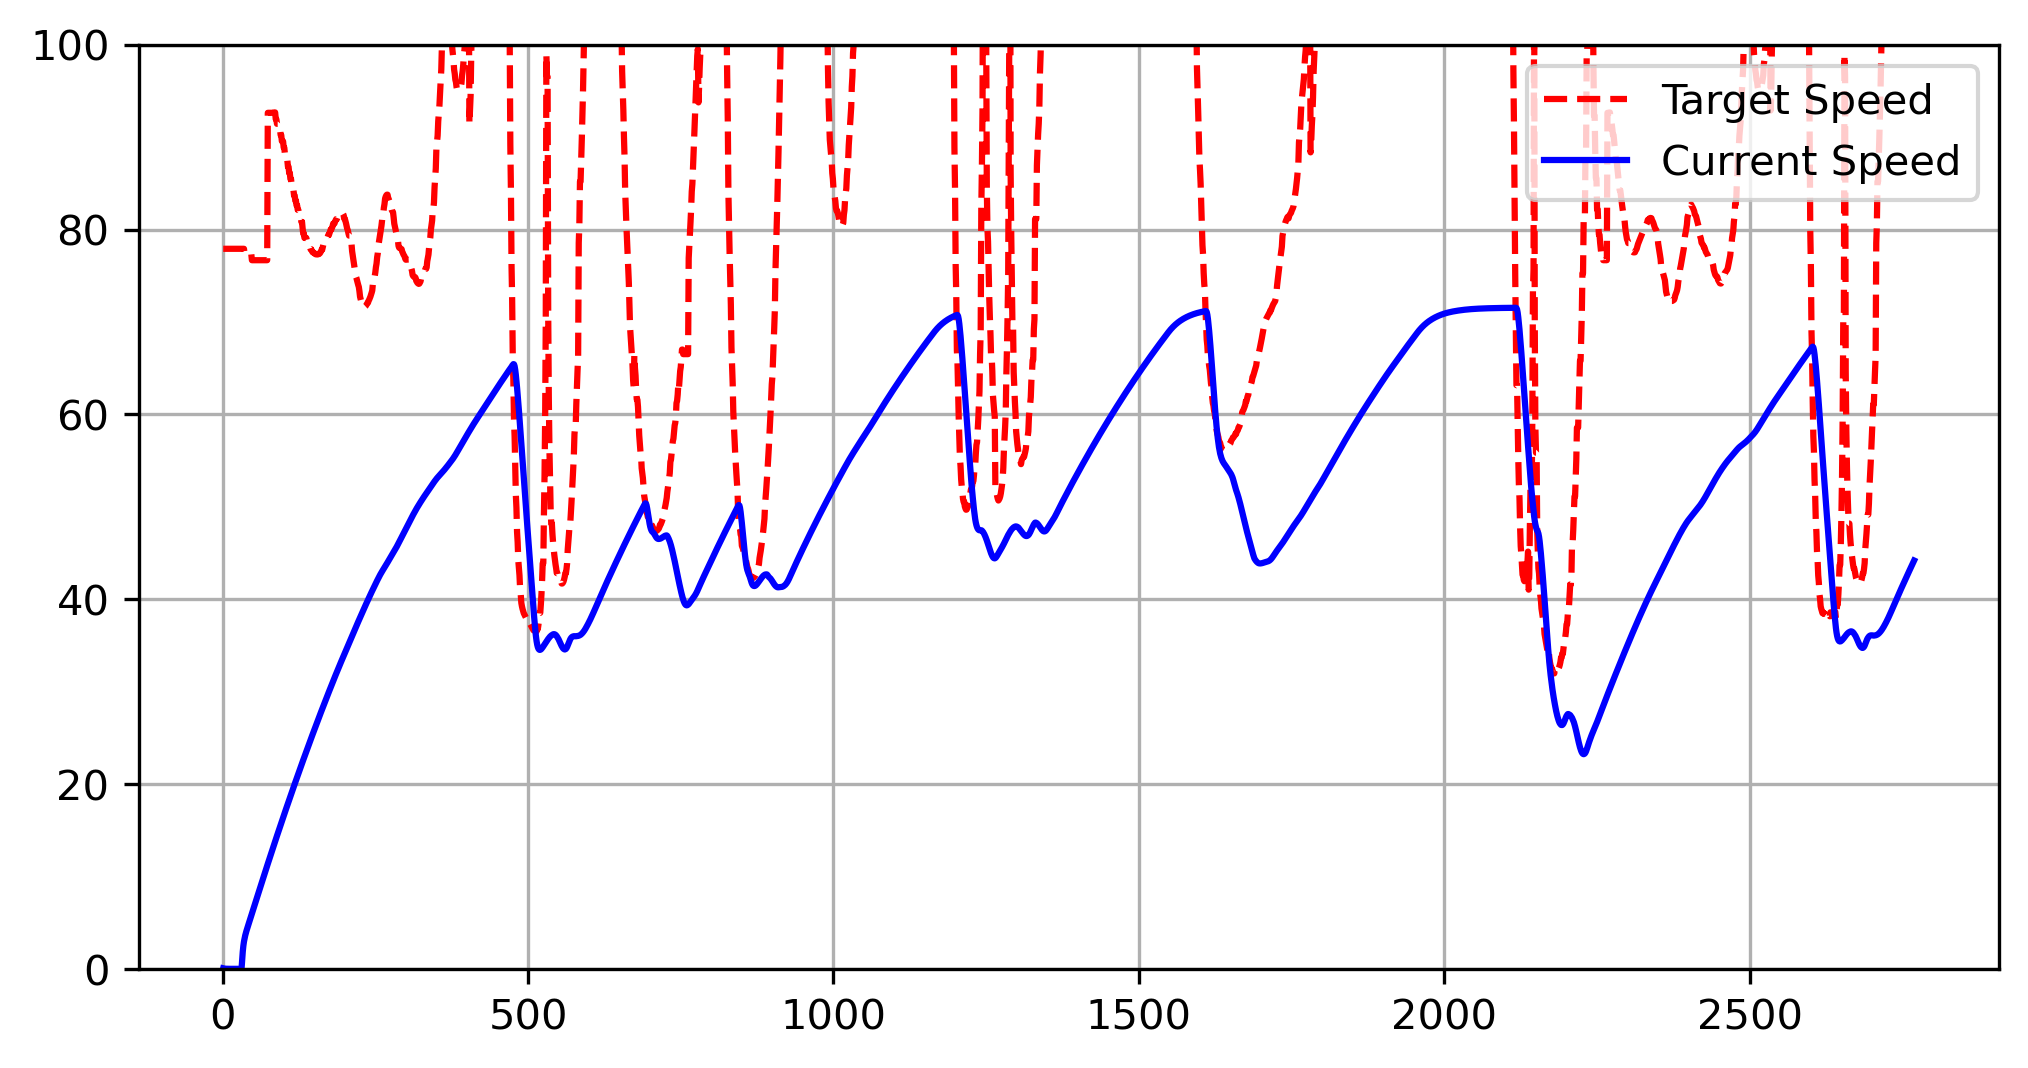
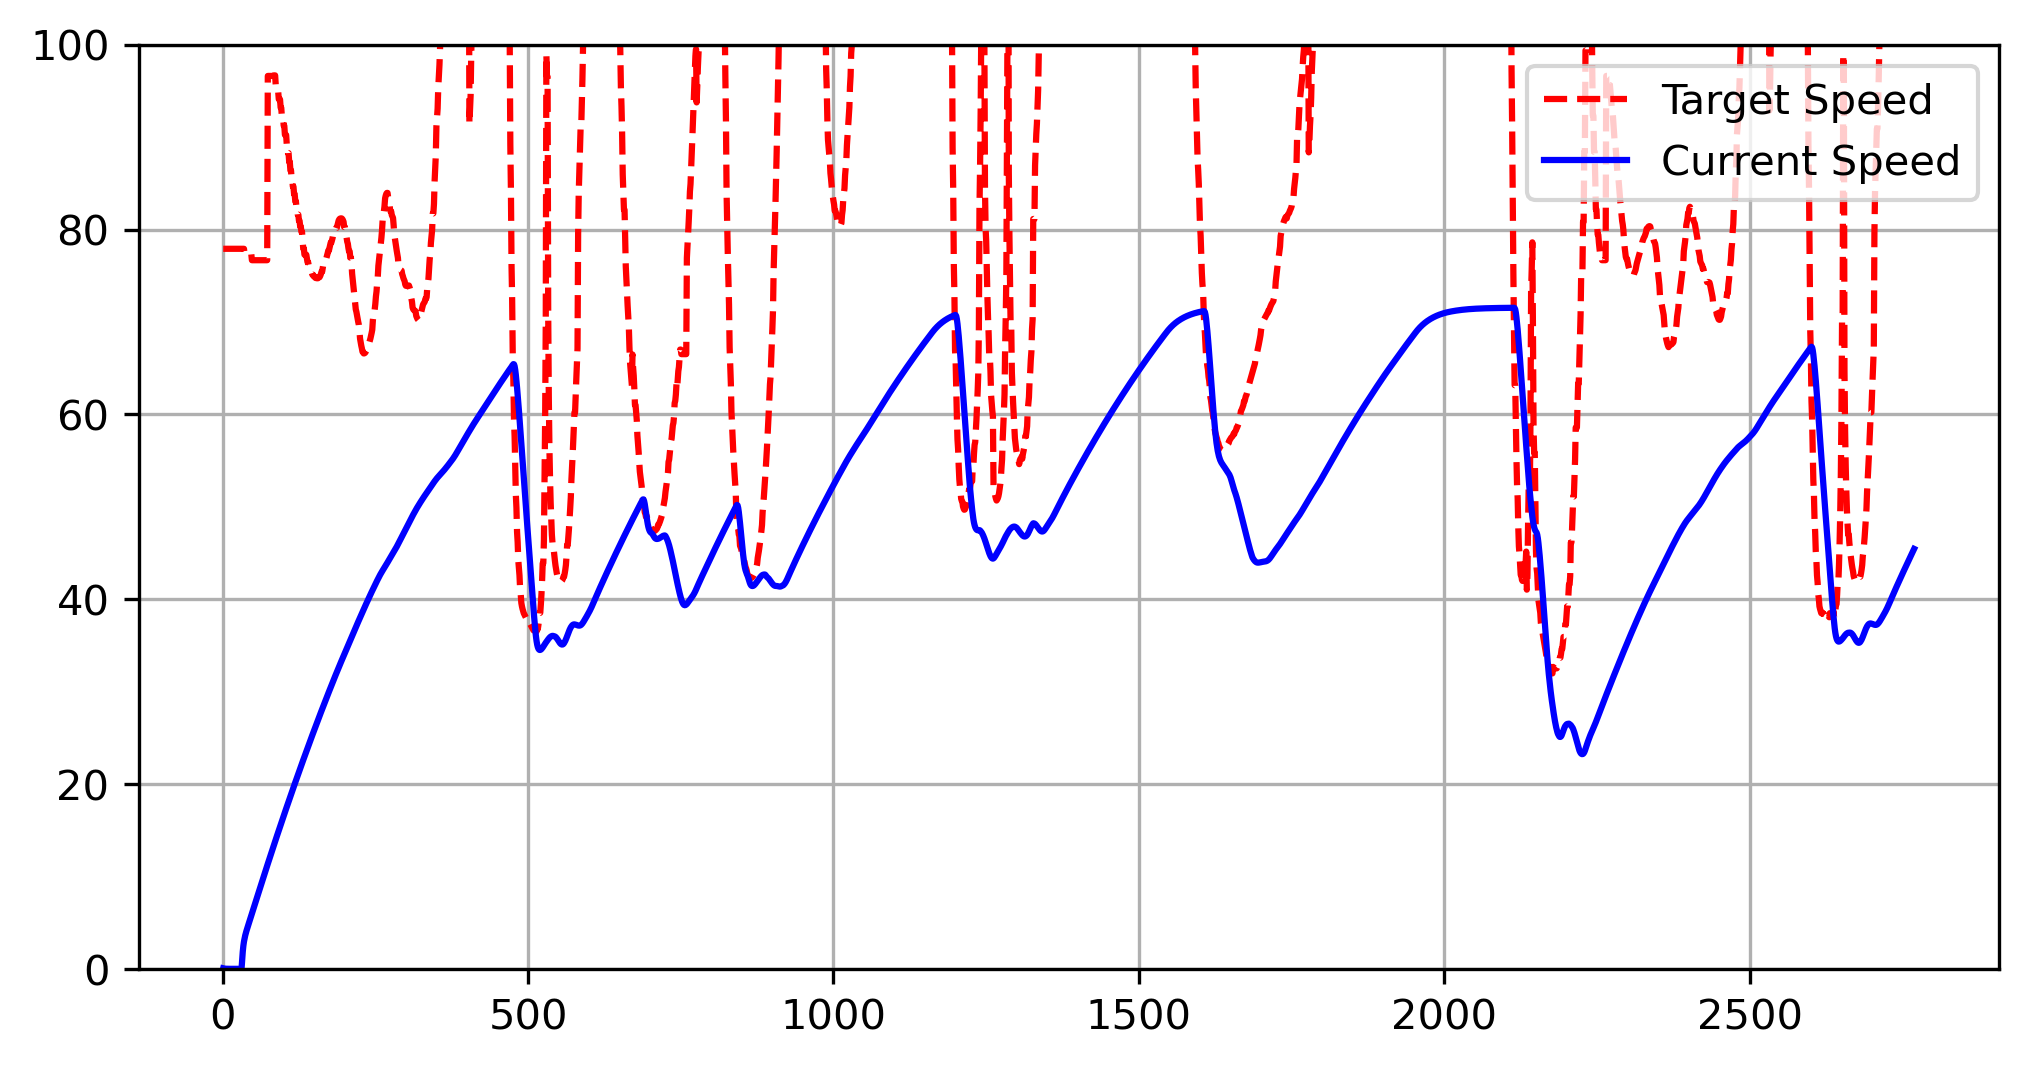
324.55 and clean up. 500 corner matches 1st place

diff --git a/competition_code/util/Tuner.py b/competition_code/util/Tuner.py
@@ -2,34 +2,47 @@ import numpy as np
 
 class Tuner:
 
+    WAYPOINT_TO_SPEEDS = [
+        (0, 300, 10/7), 
+        (300, 510, 38/35), 
+        (600, 710, 19/14), 
+        (745, 870, 6/5), 
+        (1300, 1325, 10/7), 
+        (1400, 1425, 10/7), 
+        (1750, 2000, 11/7), 
+        (2550, np.inf, 38/35)
+    ]
+
+    WAYPOINT_TO_LOOKAHEAD = [
+        (450, 490, 4), 
+        (660, 700, 4), 
+        (745, 838, 4), 
+        (1300, 1325, 7), 
+        (1400, 1425, 7), 
+        (1800, 1900, 9), 
+        (2550, 2600, 2)
+    ]
+
     @staticmethod
     def tune_target_speed(target_speed, waypoint):
-        if (0 <= waypoint <= 300): return target_speed + 25
-        if (600 <= waypoint <= 710): return target_speed * 19/14
-        if (1300 <= waypoint <= 1325 or 1400 <= waypoint <= 1425): return target_speed * 10/7
-        if (1750 <= waypoint <= 2000): return target_speed * 11/7
-        if (745 <= waypoint <= 870): return target_speed * 6/5
-        if (waypoint <= 510 or waypoint >= 2550): return target_speed * 38/35
+        for s, e, f in Tuner.WAYPOINT_TO_SPEEDS:
+            if s <= waypoint <= e:
+                return target_speed * f
         return target_speed * 44/35
 
     @staticmethod
-    def tune_steer_kP(target_speed):
-        if (target_speed < 35): return 1.2
-        return 1.3
-
-    @staticmethod
     def tune_steer(steer, waypoint):
+        #if (490 <= waypoint <= 510): return steer * 2.0
+        #if (510 <= waypoint <= 540): return max(steer, 0)
         if (1855 <= waypoint <= 1900): return max(steer * 3.0, 0)
         if (830 <= waypoint <= 860): return max(steer * 2.0, 0)
         return steer
 
     @staticmethod
     def tune_steer_lookahead(lookahead, waypoint):
-        if (1300 <= waypoint <= 1325 or 1400 <= waypoint <= 1425): return lookahead + 7
-        if (1800 <= waypoint <= 1900): return lookahead + 9
-        if (745 <= waypoint < 838): return lookahead + 4
-        if (450 <= waypoint < 490 or 2550 <= waypoint <= 2600): return lookahead + 2
-        if (660 <= waypoint <= 700): return lookahead + 4
+        for s, e, a in Tuner.WAYPOINT_TO_LOOKAHEAD:
+            if s <= waypoint <= e:
+                return lookahead + a
         return lookahead
 
     

diff --git a/competition_code/submission.py b/competition_code/submission.py
@@ -58,7 +58,7 @@ class RoarCompetitionSolution:
 
         self.speed_controller = PIDController(1.0, 0.1, 0.1, 0.05)
         self.speed_controller.set_iZone(5)
-        self.steer_controller = PIDController(1.0, 0.0, 0.0, 0.05)
+        self.steer_controller = PIDController(1.2, 0.0, 0.0, 0.05)
 
         self.speeds_plot = Plotter([], [], [], "Speeds", "Target Speed", "Current Speed", [8, 4], [0, 100], 2769)
         self.steers_plot = Plotter([], [], [], "Steers", "Target Steer", "Current Steer", [8, 4], [-4, 4], 2769)
@@ -85,15 +85,15 @@ class RoarCompetitionSolution:
         throttle_normalized = np.clip(throttle_control, 0.0, 1.0)
         brake_normalized = np.clip(-throttle_control, 0.0, 1.0)
 
-        self.steer_controller.kp = Tuner.tune_steer_kP(target_speed)
+        self.steer_controller.kp = 1.2 if (target_speed < 35) else 1.3
 
         target_steer = MovementController.get_target_heading(vehicle_velocity_norm, self, vehicle_location)
         current_steer = MathUtil.normalize_rad(vehicle_rotation[2])
         target_steer = MathUtil.normalize_continuous_target_rads(current_steer, target_steer)
 
         self.steer_controller.set_setpoint(target_steer)
-        steer_control = self.steer_controller.calculate(current_steer)
-        steer_control = Tuner.tune_steer(-steer_control, self.current_waypoint_idx)
+        steer_control = -self.steer_controller.calculate(current_steer)
+        steer_control = Tuner.tune_steer(steer_control, self.current_waypoint_idx)
         steer_normalized = np.clip(steer_control, -1.0, 1.0)
 
         self.speeds_plot.generate(target_speed, vehicle_velocity_norm)

diff --git a/competition_code/waypoints/plot_waypoints.py b/competition_code/waypoints/plot_waypoints.py
@@ -812,8 +812,8 @@ class TrackEditor:
 
 if __name__ == "__main__":
     REFERENCE_TRACK = "competition_code/waypoints/Monza.npz"
-    EDITABLE_PATH_1 = "competition_code/waypoints/output_output_output_theWaypoints.npz"
-    EDITABLE_PATH_2 = "competition_code/waypoints/theWaypoints.npz"
+    EDITABLE_PATH_1 = "competition_code/waypoints/waypointsV7.npz"
+    EDITABLE_PATH_2 = "competition_code/waypoints/waypointsV7.npz"
 
     if os.path.exists(REFERENCE_TRACK) and os.path.exists(EDITABLE_PATH_1) and os.path.exists(EDITABLE_PATH_2):
         print(f"Loading {REFERENCE_TRACK} as boundaries...")
